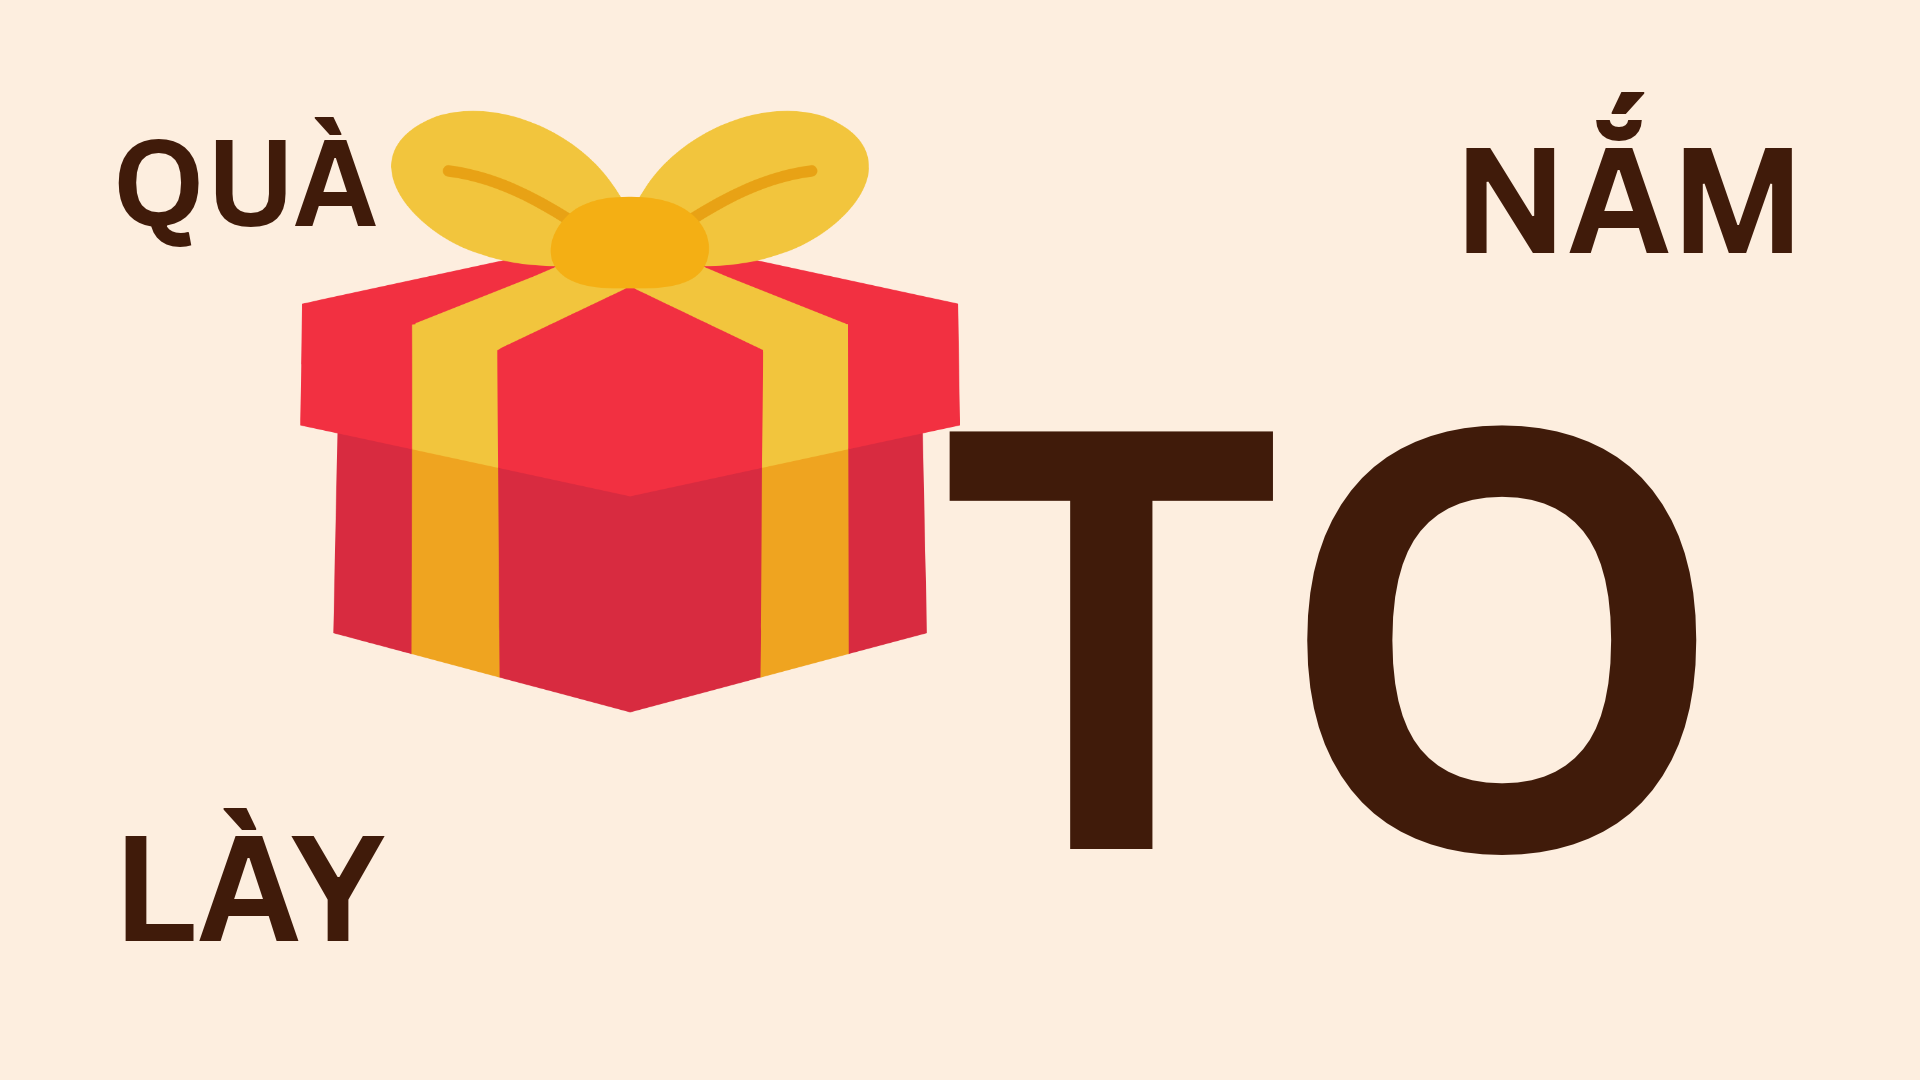
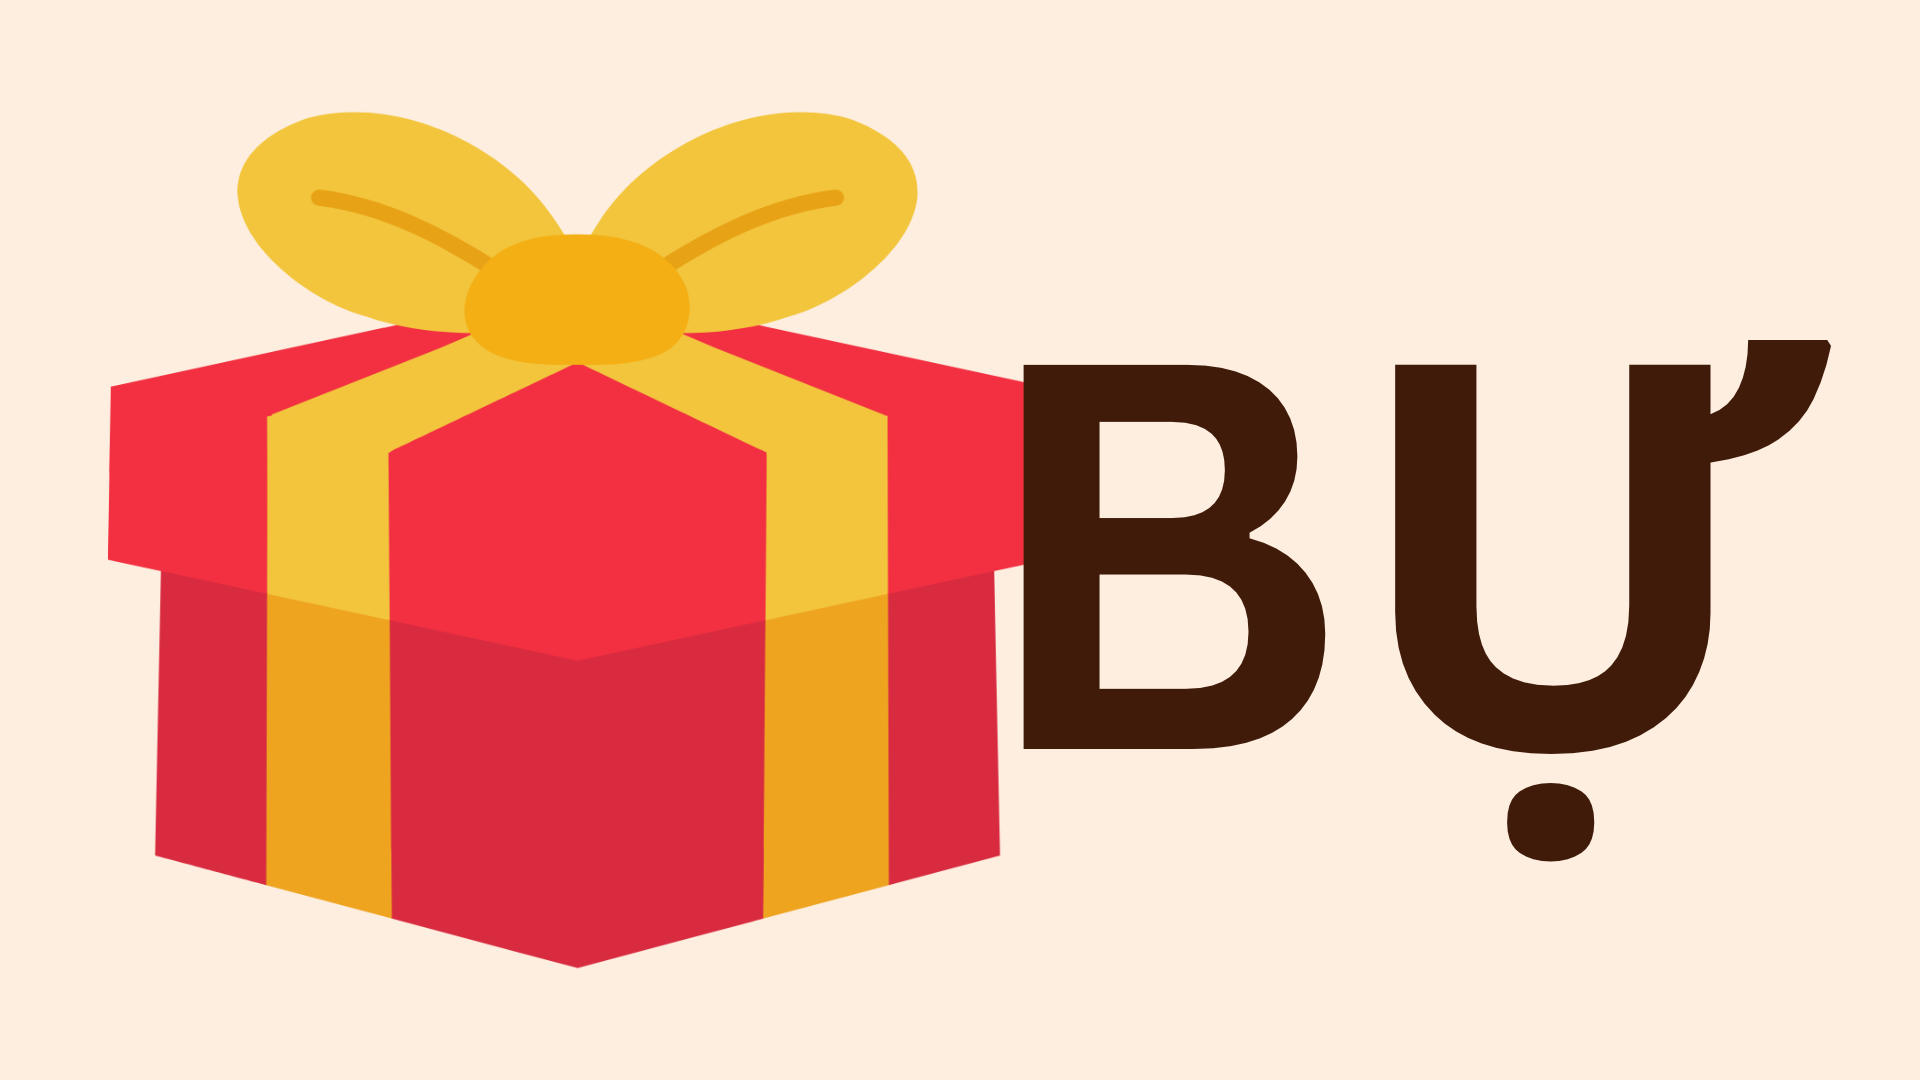
Replace Open Graph image with updated photo

diff --git a/app/layout.tsx b/app/layout.tsx
@@ -20,7 +20,7 @@ export const metadata: Metadata = {
       url: '/og-image.png',
       width: 1920,
       height: 1080,
-      alt: 'Hộp quà đỏ và vàng trên nền kem',
+      alt: 'Hộp quà đỏ vàng bên chữ BỰ trên nền kem',
     }],
   },
   generator: 'v0.app',
